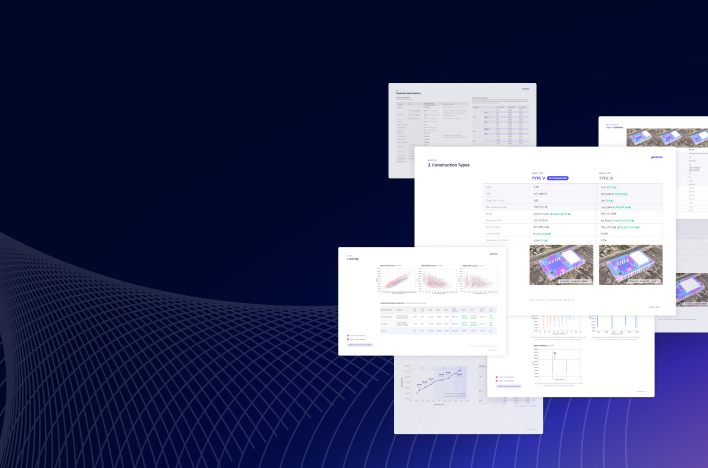
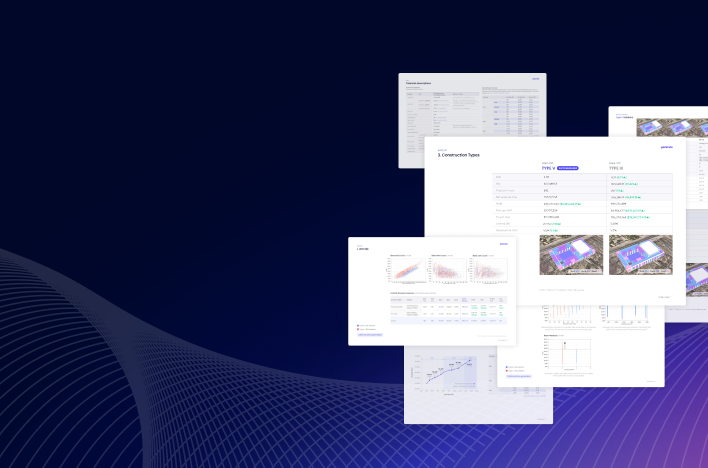
Feat: new UI for landing & zenerate app page

Changed region(s): [[0.0, 0.1496, 1.0, 1.0], [0.6836, 0.4188, 0.7147, 0.4487], [0.6215, 0.8376, 0.6525, 0.8675]]

diff --git a/src/components/EN/ProductCard.vue b/src/components/EN/ProductCard.vue
@@ -11,18 +11,22 @@
           class="mt-60 ml-60 mb-16 hidden md:block lg:hidden"
         />
         <ZmapsLogo size="large" class="mt-84 ml-84 mb-22 hidden lg:block" />
-
         <p
           class="ml-28 text-18 font-light md:ml-60 md:mb-32 md:w-[240px] md:text-22 lg:ml-84 lg:mb-44 lg:w-[280px] lg:text-30"
         >
           Your City's Ultimate
           <span class="font-medium">Real Estate Development Map</span>
         </p>
+        <a
+          :href="CARD_DATA[product].buttonLinkedTo"
+          class="text-13-medium ml-60 hidden h-34 w-[116px] rounded-4 bg-primary text-center leading-[34px] !text-core-10 duration-300 hover:!text-core-200 md:block lg:ml-84 lg:block lg:h-48 lg:w-[160px] lg:text-18 lg:leading-[48px]"
+          >{{ CARD_DATA[product].buttonText }}</a
+        >
       </template>
 
       <template v-else-if="product === 'zenerate-app'">
         <div
-          class="ml-28 mt-30 mb-16 flex flex-row flex-nowrap items-center md:mt-94 md:ml-60 md:mb-14 lg:ml-84 lg:mt-[130px]"
+          class="ml-28 mt-30 mb-16 flex flex-row flex-nowrap items-center md:mt-94 md:ml-60 md:mb-14 lg:ml-84 lg:mt-[100px]"
         >
           <div
             class="mr-9 text-22 text-primary md:mr-12 md:text-28 lg:mb-18 lg:mr-16 lg:text-40"
@@ -36,12 +40,23 @@
           </div>
         </div>
         <p
-          class="ml-28 text-18 font-light md:ml-60 md:mb-34 md:text-24 lg:mb-48 lg:ml-84 lg:text-32"
+          class="ml-28 text-18 font-light md:ml-60 md:mb-34 md:text-24 lg:mb-52 lg:ml-84 lg:text-32"
         >
           AI-Powered, Real-time<br /><span class="font-semibold"
             >Feasibility Study Tool</span
           >
         </p>
+        <router-link
+          :to="{ name: CARD_DATA[product].buttonLinkedTo }"
+          class="learn-more-button text-18-medium ml-60 hidden w-fit flex-row items-center !text-primary hover:!text-core-700 md:flex lg:ml-84 lg:flex"
+          :class="product"
+          >{{ CARD_DATA[product].buttonText
+          }}<IconBase
+            icon-name="arrow-right"
+            :width="24"
+            :height="24"
+            class="ml-8"
+        /></router-link>
       </template>
 
       <template v-else-if="product === 'ai-consulting'">
@@ -51,31 +66,36 @@
           <span class="font-semibold">Zenerate</span>&nbsp;AI Consulting
         </div>
         <p
-          class="ml-28 text-18 font-light text-white md:ml-60 md:mb-56 md:w-[260px] md:text-22 lg:ml-84 lg:mb-76 lg:w-[360px] lg:text-30"
+          class="ml-28 text-18 font-light text-white md:ml-60 md:mb-30 md:w-[260px] md:text-22 lg:ml-84 lg:mb-52 lg:w-[360px] lg:text-30"
         >
           <span class="font-medium">Explore all development<br /></span
           >&nbsp;<span class="font-medium">possibilities</span>&nbsp;to
           determine<br />the highest & best use
         </p>
+        <router-link
+          :to="{ name: CARD_DATA[product].buttonLinkedTo }"
+          class="learn-more-button text-16-medium ml-60 hidden w-fit flex-row items-center !text-white hover:!text-gray-200 md:flex lg:ml-84 lg:flex"
+          :class="product"
+          >{{ CARD_DATA[product].buttonText
+          }}<IconBase
+            icon-name="arrow-right"
+            :width="20"
+            :height="20"
+            class="ml-8"
+        /></router-link>
       </template>
-
-      <a
-        :href="CARD_DATA[product].buttonLinkedTo"
-        class="text-13-medium ml-60 hidden h-34 w-fit rounded-4 bg-primary px-16 text-center leading-[34px] !text-white duration-300 hover:!text-core-200 md:block lg:text-18-medium lg:ml-84 lg:block lg:h-48 lg:w-[160px] lg:leading-[48px]"
-        >{{ CARD_DATA[product].buttonText }}</a
-      >
     </div>
 
     <div class="inner-shadow mt-auto h-fit py-20 px-22 md:px-60 lg:pl-84">
       <div class="mb-24 pl-8 md:mb-14 md:pl-0">
         <span
           class="mb-10 text-14 font-semibold text-primary md:hidden lg:hidden"
-          >Best For</span
+          >Best for</span
         >
         <span
           class="mb-8 hidden text-11 font-medium md:block lg:mb-12 lg:block lg:text-14"
           :class="product === 'ai-consulting' ? 'text-white' : 'text-primary'"
-          >Made For</span
+          >Made for</span
         >
 
         <div
@@ -116,6 +136,7 @@
 import { PropType, computed } from 'vue'
 import { ZmapsLogo } from '/Components/EN'
 import { ROLES } from '/Constants/roles'
+import IconBase from './ui/IconBase.vue'
 
 const props = defineProps({
   product: String as PropType<'zmaps' | 'zenerate-app' | 'ai-consulting'>,
@@ -138,13 +159,13 @@ const CARD_DATA = {
   },
   'zenerate-app': {
     bestFor: ['developer_investor', 'architect', 'broker'],
-    buttonText: 'Learn More',
-    buttonLinkedTo: 'https://www.zenerate.ai/zenerate-app',
+    buttonText: 'Learn More About the App',
+    buttonLinkedTo: 'en-overview',
   },
   'ai-consulting': {
     bestFor: ['developer_investor', 'architect'],
-    buttonText: 'Learn More',
-    buttonLinkedTo: 'https://www.zenerate.ai/ai-consulting',
+    buttonText: 'Learn More About AI Consulting',
+    buttonLinkedTo: 'en-ai-consulting',
   },
 }
 </script>
@@ -186,6 +207,40 @@ const CARD_DATA = {
     @include en-mobile {
       background-image: url('/public/en/products/ai_consulting_mobile.png');
       background-position: bottom 203px center;
+    }
+  }
+
+  .learn-more-button {
+    &.zenerate-app {
+      svg {
+        :deep(path) {
+          fill: theme('colors.primary.DEFAULT') !important;
+        }
+      }
+
+      &:hover {
+        svg {
+          :deep(path) {
+            fill: theme('colors.core.700') !important;
+          }
+        }
+      }
+    }
+
+    &.ai-consulting {
+      svg {
+        :deep(path) {
+          fill: white !important;
+        }
+      }
+
+      &:hover {
+        svg {
+          :deep(path) {
+            fill: theme('colors.gray.200') !important;
+          }
+        }
+      }
     }
   }
 

diff --git a/src/views/EN/LandingView.vue b/src/views/EN/LandingView.vue
@@ -15,7 +15,7 @@
           </p>
 
           <p
-            class="mb-20 text-center text-16 font-regular md:mb-30 md:text-18 md:text-gray-700 lg:mb-30 lg:text-18 lg:text-gray-700"
+            class="mb-24 text-center text-16 font-regular md:mb-30 md:text-18 md:text-gray-700 lg:mb-30 lg:text-18 lg:text-gray-700"
           >
             Zenerate is revolutionizing feasibility<br
               class="md:hidden lg:hidden"
@@ -25,15 +25,24 @@
               class="md:hidden lg:hidden"
             />save time and maximize returns.
           </p>
-
-          <!-- TODO: change link -->
-          <a
-            href="https://www.zenerate.ai/demo-signup"
-            class="text-18-medium mx-auto h-[48px] rounded-5 bg-primary px-24 text-center leading-[48px] !text-white duration-300 hover:!text-core-200"
-            >Get a Demo
-          </a>
         </div>
       </div>
+
+      <!-- TODO: change link -->
+      <router-link
+        :to="{ name: 'en-demo' }"
+        class="learn-more-button text-14-medium mx-auto mb-26 flex w-fit cursor-pointer flex-row items-center justify-center !text-primary hover:!text-core-700 md:mb-44 md:text-18 lg:text-18"
+        ><IconBase
+          icon-name="arrow-down"
+          :width="22"
+          :height="22"
+          class="mr-10 md:hidden lg:hidden" />Learn More About&nbsp;<br
+          class="md:hidden lg:hidden" />Our Products & Services<IconBase
+          icon-name="arrow-down"
+          :width="24"
+          :height="24"
+          class="ml-10 hidden md:block lg:block"
+      /></router-link>
 
       <div class="mx-auto w-full max-w-[1200px]">
         <video
@@ -93,16 +102,16 @@
         >
         <div class="flex flex-col items-center md:flex-row lg:flex-row">
           <!-- TODO: change link -->
-          <a
-            href="https://www.zenerate.ai/demo-signup"
+          <router-link
+            :to="{ name: 'en-demo' }"
             class="text-16-semibold mx-auto mb-6 h-[48px] w-[250px] rounded-5 bg-primary text-center leading-[48px] !text-white duration-300 hover:!text-core-200 md:mr-10 md:mb-0 md:h-[56px] md:w-[236px] md:text-20 md:leading-[56px] lg:mb-0 lg:mr-10 lg:h-[56px] lg:w-[236px] lg:text-20 lg:leading-[56px]"
             >Get a Demo
-          </a>
-          <a
-            href="https://www.zenerate.ai/contact"
+          </router-link>
+          <router-link
+            :to="{ name: 'en-contact' }"
             class="text-16-semibold mx-auto h-[48px] w-[250px] rounded-5 bg-white text-center leading-[48px] duration-300 hover:!bg-gray-200 md:h-[56px] md:w-[236px] md:text-20 md:leading-[56px] lg:h-[56px] lg:w-[236px] lg:text-20 lg:leading-[56px]"
             >Contact Us
-          </a>
+          </router-link>
         </div>
       </div>
     </section>
@@ -113,6 +122,7 @@
   </div>
 </template>
 <script lang="ts" setup>
+import IconBase from '/@/components/EN/ui/IconBase.vue'
 import { ProductCard, Carousel, Footer } from '/Components/EN'
 
 const TESTMONIAL_DATA = [
@@ -137,6 +147,22 @@ const TESTMONIAL_DATA = [
 ]
 </script>
 <style lang="scss" scoped>
+.learn-more-button {
+  svg {
+    :deep(path) {
+      fill: theme('colors.primary.DEFAULT') !important;
+    }
+  }
+
+  &:hover {
+    svg {
+      :deep(path) {
+        fill: theme('colors.core.700') !important;
+      }
+    }
+  }
+}
+
 .testmonial-carousel {
   .cushman {
     .logo-img {

diff --git a/src/views/EN/ZenerateView.vue b/src/views/EN/ZenerateView.vue
@@ -35,18 +35,18 @@
 
           <div class="flex flex-col items-center md:flex-row lg:flex-row">
             <!-- TODO: change link -->
-            <a
-              href="https://www.zenerate.ai/demo-signup"
+            <router-link
+              :to="{ name: 'en-demo' }"
               class="text-18-semibold mb-10 h-48 w-[156px] rounded-5 bg-primary text-center leading-[48px] !text-white duration-300 hover:!text-core-200 md:mb-0 md:mr-10 md:h-54 md:w-[168px] md:text-20 md:leading-[54px] lg:mr-10 lg:mb-0 lg:h-54 lg:w-[168px] lg:text-20 lg:leading-[54px]"
               >Try It For Free
-            </a>
+            </router-link>
 
             <!-- TODO: change link -->
-            <a
-              href="https://www.zenerate.ai/demo-signup"
+            <router-link
+              :to="{ name: 'en-demo' }"
               class="text-18-semibold h-48 w-[156px] rounded-5 border-1 border-solid border-primary bg-white text-center leading-[48px] !text-primary duration-300 hover:!bg-core-50 md:h-54 md:w-[168px] md:text-20 md:leading-[54px] lg:h-54 lg:w-[168px] lg:text-20 lg:leading-[54px]"
               >Get a Demo
-            </a>
+            </router-link>
           </div>
         </div>
       </div>

diff --git a/src/components/EN/Header.vue b/src/components/EN/Header.vue
@@ -75,11 +75,11 @@
         </nav>
 
         <!-- TODO: change link -->
-        <a
-          href="https://www.zenerate.ai/demo-signup"
+        <router-link
+          :to="{ name: 'en-demo' }"
           class="only-en-desktop text-14-medium mx-auto h-[36px] w-[112px] rounded-5 bg-primary text-center leading-[36px] !text-white duration-300 hover:!text-core-200"
           >Get a Demo
-        </a>
+        </router-link>
         <div class="header-drawer-wrapper hover-pointer hidden-en-desktop">
           <MenuIcon
             @toggle="toggleDrawer"

diff --git a/tailwind.config.js b/tailwind.config.js
@@ -51,6 +51,7 @@ module.exports = {
           active: '#3E3BCB',
         },
         core: {
+          10: '#F4F6FF',
           30: '#E3E6FF',
           50: '#ECEFFF',
           100: '#DCDFFF',
